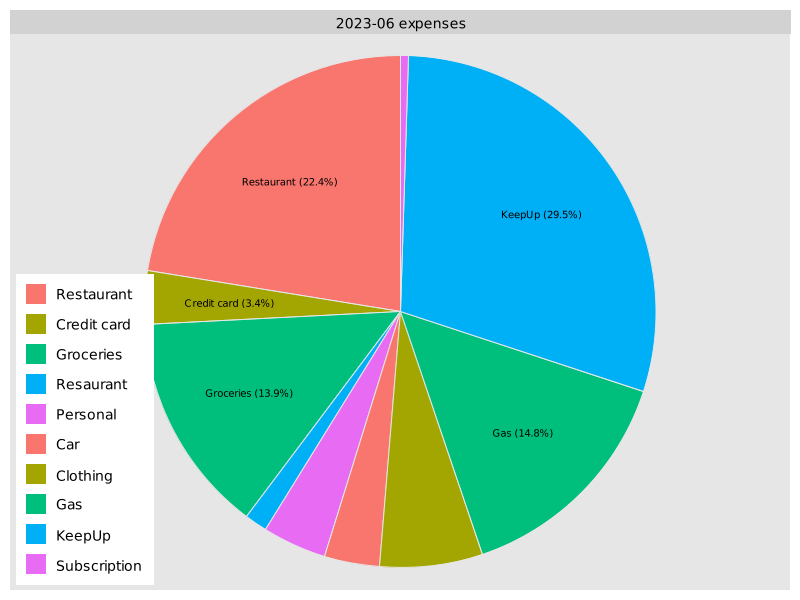
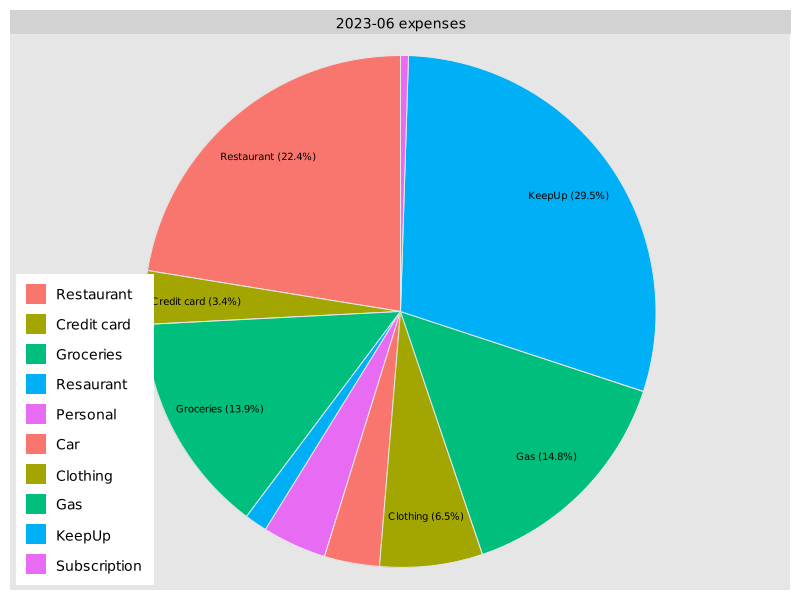
another update to Pie Chart labels.

diff --git a/src/BudgetBuddyController.java b/src/BudgetBuddyController.java
@@ -98,6 +98,7 @@ public class BudgetBuddyController {
         }
 
         // If charts were created, set the current image index (to the first chart).
+        // TODO this isn't displaying the newly created images like it should.
         if (!charts.isEmpty()) {
             currImage = 0;
             imgView.setImage(charts.get(currImage));
@@ -229,10 +230,14 @@ public class BudgetBuddyController {
         PieStyler eps = expensesPC.getStyler();
         eps.setLegendPosition(Styler.LegendPosition.InsideSW);
         eps.setLabelType(PieStyler.LabelType.NameAndPercentage);
+        eps.setLabelsVisible(true);
+        eps.setLabelsDistance(.8);
 
         PieStyler dps = depositsPC.getStyler();
         dps.setLegendPosition(Styler.LegendPosition.InsideSW);
         dps.setLabelType(PieStyler.LabelType.NameAndPercentage);
+        dps.setLabelsVisible(true);
+        dps.setLabelsDistance(.8);
 
         for (Map.Entry<String, Double> entry: expenses.entrySet()) {
             expensesPC.addSeries(entry.getKey(), entry.getValue());
